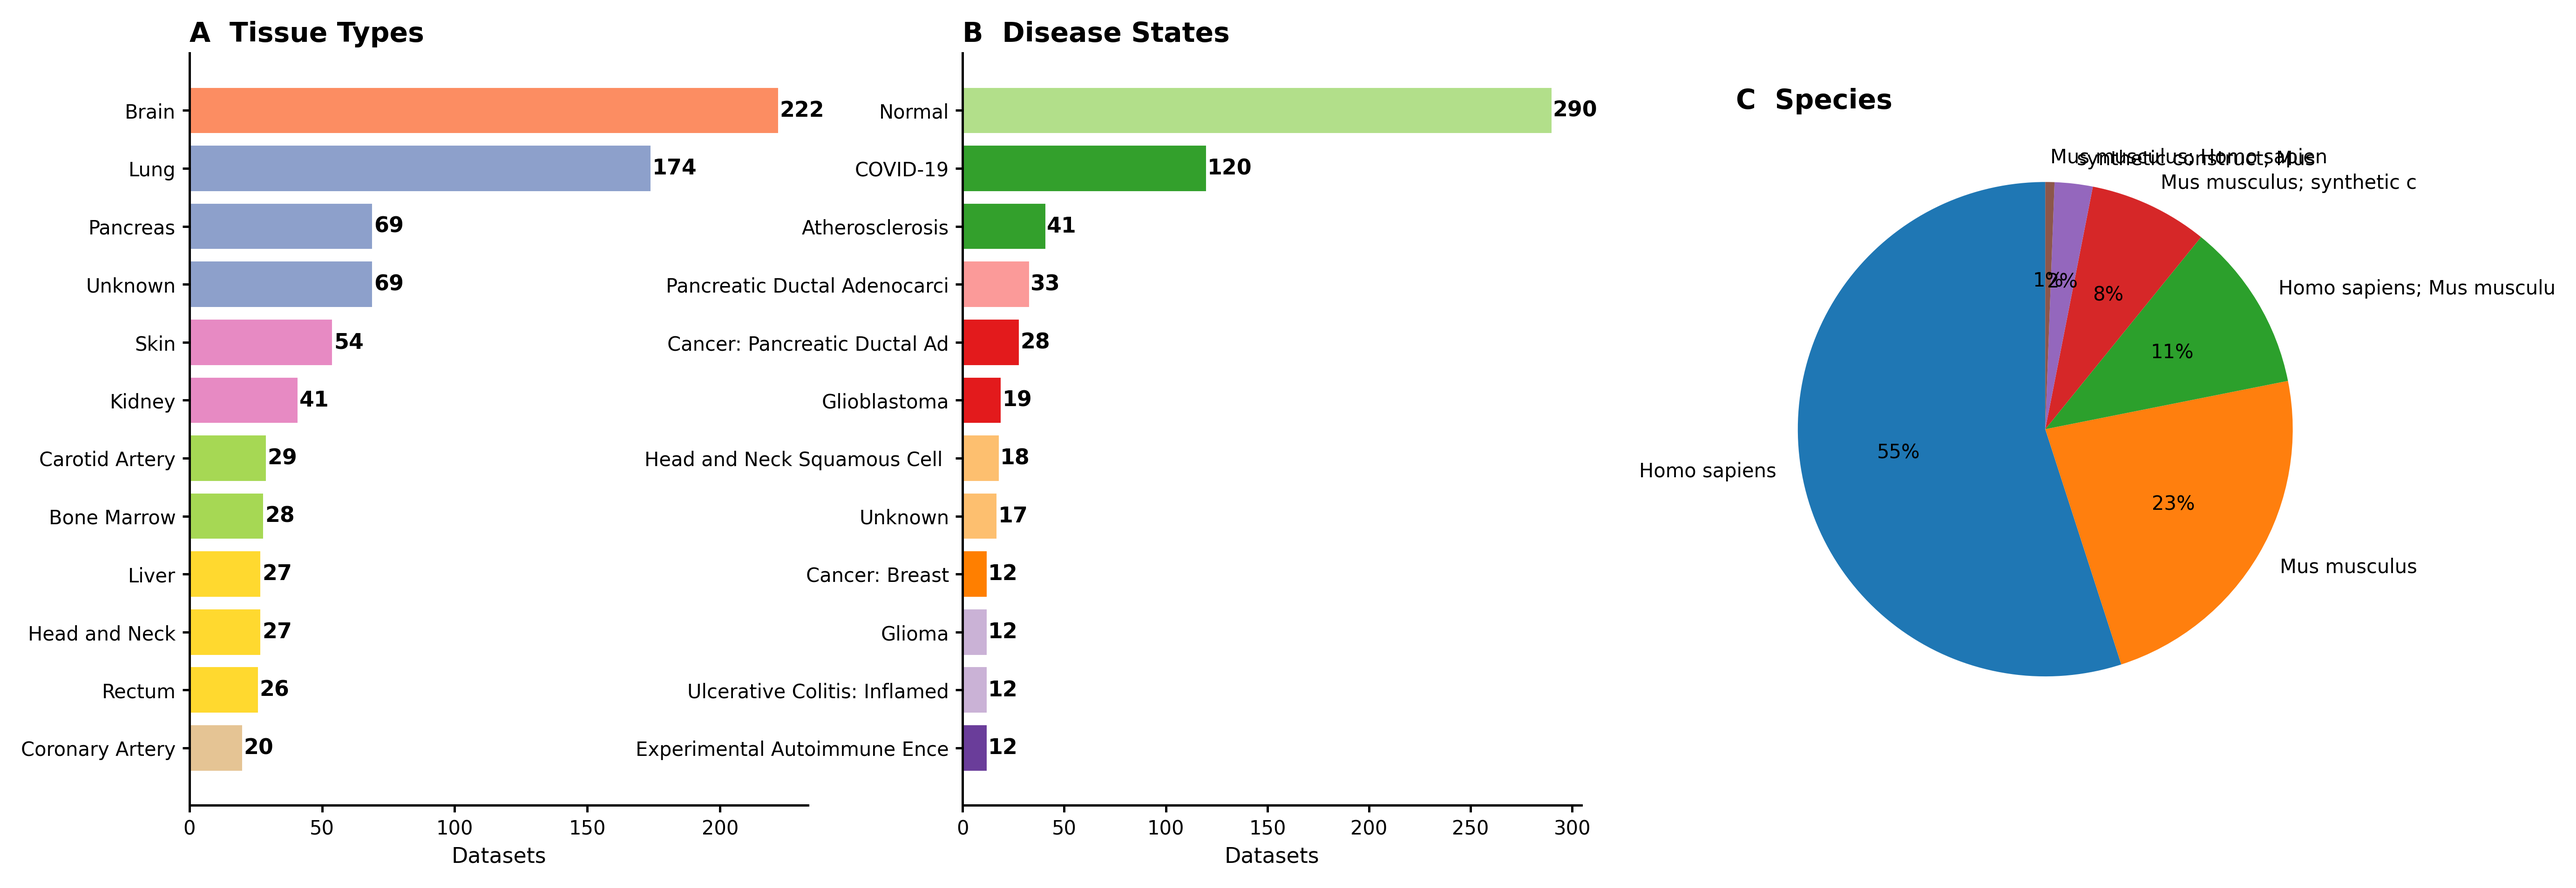
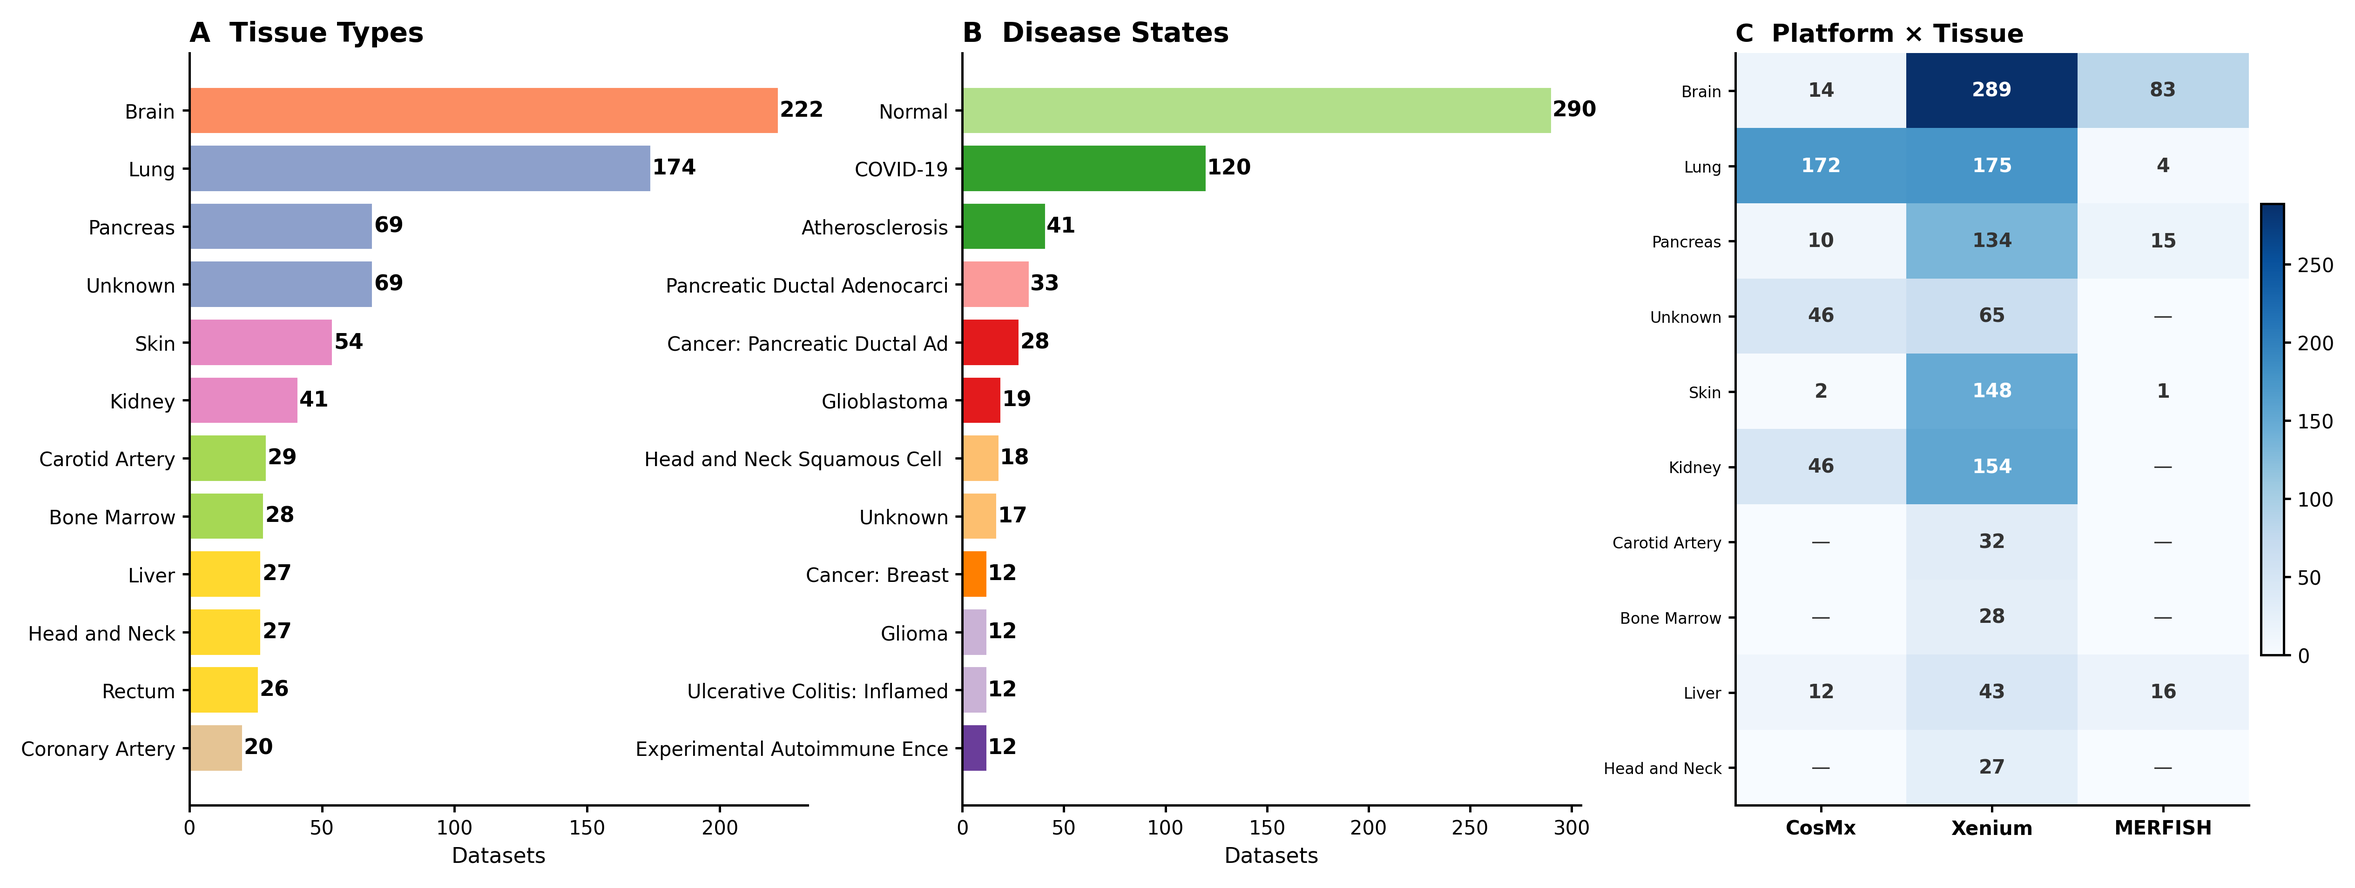
fix: replace fig3 species pie with Platform×Tissue matrix
- Species pie was uninformative (only human + mouse meaningful)
- New Panel C: heatmap showing Top 10 tissues × 3 platforms
  Numbers in cells show dataset count per combination
  Answers 'which tissues are available on which platform?'
- Small fig3C_species.png removed, replaced by fig3C_platform_tissue.png

diff --git a/report/gen_paper_figures.py b/report/gen_paper_figures.py
@@ -479,9 +479,6 @@ def fig3():
     disease_counts = Counter(r.get('disease_state','').strip() for r in ready if r.get('disease_state','').strip())
     top_disease = disease_counts.most_common(12)
 
-    # Species
-    species_counts = Counter(r.get('taxon','').strip() for r in ready if r.get('taxon','').strip())
-
     # ── 小图 A: Tissue Top 12 ───────────────────────────────────
     fig, ax = plt.subplots(figsize=(8, 5.5))
     labels = [t[0][:28] for t in top_tissue]
@@ -518,17 +515,30 @@ def fig3():
     fig.savefig(OUT / 'small' / 'fig3B_disease.png', dpi=300)
     plt.close(fig)
 
-    # ── 小图 C: 物种分布 ────────────────────────────────────────
-    fig, ax = plt.subplots(figsize=(7, 5))
-    labels = [s[0][:25] for s in species_counts.most_common(6)]
-    vals = [s[1] for s in species_counts.most_common(6)]
-    colors = plt.cm.tab10(np.linspace(0, 0.5, len(labels)))
-    wedges, texts, autotexts = ax.pie(
-        vals, labels=labels, colors=colors, autopct='%1.0f%%',
-        startangle=90, textprops={'fontsize': 10})
-    ax.set_title('Species Distribution', fontsize=14, fontweight='bold')
+    # ── 小图 C: Platform × Tissue 热图 ─────────────────────────
+    # Top 10 tissues × 3 platforms heatmap
+    top10_tissues = [t[0] for t in top_tissue[:10]]
+    pt_matrix = np.zeros((len(top10_tissues), 3))
+    for i, tissue in enumerate(top10_tissues):
+        for j, p in enumerate(PLATFORMS):
+            cnt = sum(1 for r in all_data[p] if r.get('tissue','').strip()==tissue)
+            pt_matrix[i, j] = cnt
+    fig, ax = plt.subplots(figsize=(7, 6))
+    im = ax.imshow(pt_matrix, aspect='auto', cmap='Blues')
+    for i in range(len(top10_tissues)):
+        for j in range(3):
+            v = int(pt_matrix[i, j])
+            ax.text(j, i, str(v) if v > 0 else '—', ha='center', va='center',
+                   fontsize=11, fontweight='bold' if v > 0 else 'normal',
+                   color='white' if v > pt_matrix.max()/2 else '#333')
+    ax.set_yticks(range(len(top10_tissues)))
+    ax.set_yticklabels([t[:20] for t in top10_tissues], fontsize=9)
+    ax.set_xticks(range(3))
+    ax.set_xticklabels(PLATFORMS, fontsize=11, fontweight='bold')
+    plt.colorbar(im, ax=ax, shrink=0.6, pad=0.02)
+    ax.set_title('Platform × Tissue Coverage', fontsize=13, fontweight='bold')
     fig.tight_layout()
-    fig.savefig(OUT / 'small' / 'fig3C_species.png', dpi=300)
+    fig.savefig(OUT / 'small' / 'fig3C_platform_tissue.png', dpi=300)
     plt.close(fig)
 
     # ── 大图: 3 面板 ────────────────────────────────────────────
@@ -564,13 +574,26 @@ def fig3():
     ax_b.set_title('B  Disease States', fontsize=14, fontweight='bold', loc='left')
 
     ax_c = fig.add_subplot(gs[0, 2])
-    labels = [s[0][:25] for s in species_counts.most_common(6)]
-    vals = [s[1] for s in species_counts.most_common(6)]
-    colors = plt.cm.tab10(np.linspace(0, 0.5, len(labels)))
-    wedges, texts, autotexts = ax_c.pie(
-        vals, labels=labels, colors=colors, autopct='%1.0f%%',
-        startangle=90, textprops={'fontsize': 10})
-    ax_c.set_title('C  Species', fontsize=14, fontweight='bold', loc='left')
+    # Platform × Tissue heatmap
+    top10_tissues = [t[0] for t in top_tissue[:10]]
+    pt_matrix = np.zeros((len(top10_tissues), 3))
+    for i, tissue in enumerate(top10_tissues):
+        for j, p in enumerate(PLATFORMS):
+            cnt = sum(1 for r in all_data[p] if r.get('tissue','').strip()==tissue)
+            pt_matrix[i, j] = cnt
+    im = ax_c.imshow(pt_matrix, aspect='auto', cmap='Blues')
+    for i in range(len(top10_tissues)):
+        for j in range(3):
+            v = int(pt_matrix[i, j])
+            ax_c.text(j, i, str(v) if v > 0 else '—', ha='center', va='center',
+                     fontsize=10, fontweight='bold' if v > 0 else 'normal',
+                     color='white' if v > pt_matrix.max()/2 else '#333')
+    ax_c.set_yticks(range(len(top10_tissues)))
+    ax_c.set_yticklabels([t[:18] for t in top10_tissues], fontsize=8)
+    ax_c.set_xticks(range(3))
+    ax_c.set_xticklabels(PLATFORMS, fontsize=10, fontweight='bold')
+    plt.colorbar(im, ax=ax_c, shrink=0.6, pad=0.02)
+    ax_c.set_title('C  Platform × Tissue', fontsize=13, fontweight='bold', loc='left')
 
     fig.tight_layout()
     fig.savefig(OUT / 'big' / 'fig3_biological_coverage.png', dpi=300)
